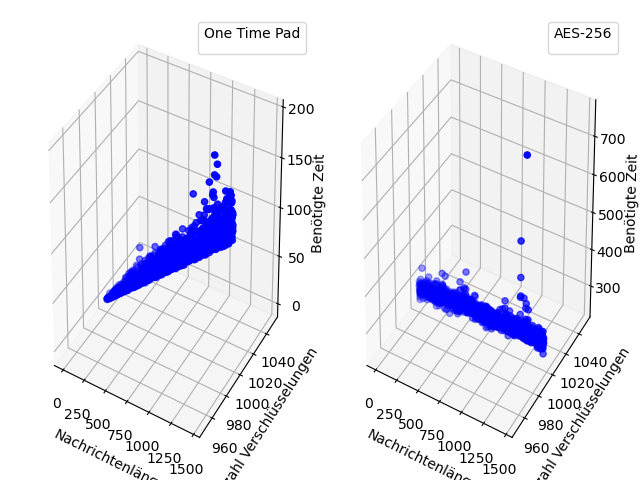
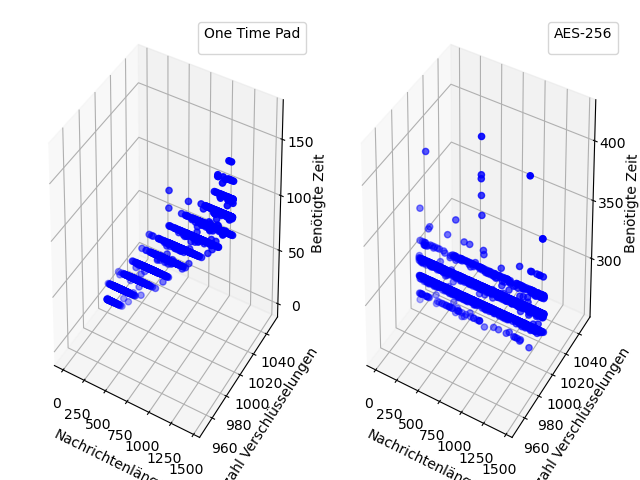
raspi optimiert v1

diff --git a/plot.py b/plot.py
@@ -1,28 +1,33 @@
 from matplotlib import pyplot as plt
 import pandas as pd
 import my_parameters
+import math
 import tikzplotlib
 from mpl_toolkits.mplot3d import Axes3D
 
+def roundup(in_time):
+    return int(math.ceil(in_time / 50.0)) * 50
+
 lang_plot = 'ger'
+platform = 'pc'
 
-# df = pd.read_pickle("dummy_LengthVStime.pkl")
-df = pd.read_pickle("Z:/mycm_crypto/CryptEval/dummy_LengthVStime_raspi.pkl")
 
-# df = pd.read_pickle("dummy_AnzahlVStime.pkl")
+if platform == 'pc':
+    # df = pd.read_pickle("dummy_AnzahlVStime.pkl")
+    df = pd.read_pickle("dummy_LengthVStime.pkl")
+    LaengeKonst = df[df["Nachrichtenlaenge"] == my_parameters.Nachrichtenlaenge_iter]
+    AnzahlKonst = df[df["AnzahlVerschluesselungen"] == my_parameters.AnzahlVerschluesselungen_iter]
 
-print(my_parameters.AnzahlVerschluesselungen_iter)
-print(my_parameters.Nachrichtenlaenge_iter)
-print(df)
+else:
+    #
+    df = pd.read_pickle("Z:/mycm_crypto/CryptEval/dummy_LengthVStime_raspi.pkl")
+    LaengeKonst = df[df["Nachrichtenlaenge"] == my_parameters.Nachrichtenlaenge_raspi]
+    AnzahlKonst = df[df["AnzahlVerschluesselungen"] == my_parameters.AnzahlVerschluesselungen_raspi]
 
-LaengeKonst = df[df["Nachrichtenlaenge"] == my_parameters.Nachrichtenlaenge_iter]
-AnzahlKonst = df[df["AnzahlVerschluesselungen"] == my_parameters.AnzahlVerschluesselungen_iter]
 
-print('FIlter')
+cr_ylim = roundup(max(max(AnzahlKonst['ZeitAES']), max(AnzahlKonst['ZeitOTP']), max(LaengeKonst['ZeitAES']), max(LaengeKonst['ZeitOTP'])))
 
-print(AnzahlKonst)
-
-# print(LaengeKonst)
+print(cr_ylim)
 
 fig1 = plt.figure(1)
 ax1 = fig1.add_subplot(111)
@@ -35,10 +40,10 @@ if lang_plot == 'eng':
     ax1.set_xlabel('number of encryptions [n]')
     ax1.set_ylabel('time [ms]')
     ax1.set_title(str('Constant Message Length: ' + str(my_parameters.Nachrichtenlaenge_iter) + ' Bytes'))
-    ax1.set_ylim(ymin=0, ymax=800)
+    ax1.set_ylim(ymin=0, ymax=cr_ylim)
     ax1.set_xlim(xmin=0)
     plt.legend()
-    # plt.grid()
+    plt.grid(color='0.7', linestyle='dotted', linewidth=0.5)
     # fig1.savefig('C:/Users/blue/Documents/Forschungsprojekt-FUH/Ausarbeitung/Abbildungen/plots/AnzahlVStime_english.svg',
     fig1.savefig('AnzahlVStime_english.svg',
                  format='svg', orientation='landscape', pad_inches=0, dpi=1200)
@@ -47,15 +52,17 @@ else:
     ax1.set_xlabel('Anzahl Maskierungen [n]')
     ax1.set_ylabel('Zeit [ms]')
     ax1.set_title(str('Nachrichtenlänge konstant bei ' + str(my_parameters.Nachrichtenlaenge_iter) + ' Bytes'))
-    # ax1.set_ylim(ymin=0, ymax=800)
+    ax1.set_ylim(ymin=0, ymax=cr_ylim)
     ax1.set_xlim(xmin=0)
     plt.legend()
-    # plt.grid()
+    plt.grid(color='0.7', linestyle='dotted', linewidth=0.5)
     # fig1.savefig('C:/Users/blue/Documents/Forschungsprojekt-FUH/Ausarbeitung/Abbildungen/plots/AnzahlVStime.pdf',
     fig1.savefig('AnzahlVStime.pdf',
                  format='pdf', orientation='landscape', pad_inches=0)
 
 #fig1.show()
+
+
 
 fig2 = plt.figure(2)
 ax2 = fig2.add_subplot(111)
@@ -64,13 +71,16 @@ ax2.plot(AnzahlKonst['Nachrichtenlaenge'], AnzahlKonst['ZeitAES'], color='k', ma
 ax2.plot(AnzahlKonst['Nachrichtenlaenge'], AnzahlKonst['ZeitOTP'], color='0.7', marker='s', markersize=0.5,
          linewidth = 0.1, label=str('SIKAF (OTP)'))
 
+
+
 if lang_plot == 'eng':
     ax2.set_xlabel('message length [byte]')
     ax2.set_ylabel('time [ms]')
     ax2.set_title(str('Constant Number of Encryptions n=' + str(my_parameters.AnzahlVerschluesselungen_iter)))
-    ax2.set_ylim(ymin=0, ymax=800)
+    ax2.set_ylim(ymin=0, ymax=cr_ylim)
     ax2.set_xlim(xmin=0)
     plt.legend()
+    plt.grid(color='0.7', linestyle='dotted', linewidth=0.5)
     # fig2.savefig('C:/Users/blue/Documents/Forschungsprojekt-FUH/Ausarbeitung/Abbildungen/plots/LengthVStime_english.svg',
     fig2.savefig('LengthVStime_english.svg',
                  format='svg', orientation='landscape', pad_inches=0, dpi=1200)
@@ -79,9 +89,10 @@ else:
     ax2.set_xlabel('Nachrichtenlänge [Byte]')
     ax2.set_ylabel('Zeit [ms]')
     ax2.set_title(str('Anzahl Maskierungen konstant bei n=' + str(my_parameters.AnzahlVerschluesselungen_iter)))
-    # ax2.set_ylim(ymin=0, ymax=800)
+    ax2.set_ylim(ymin=0, ymax=cr_ylim)
     ax2.set_xlim(xmin=0)
     plt.legend()
+    plt.grid(color='0.7', linestyle='dotted', linewidth=0.5)
     # fig2.savefig('C:/Users/blue/Documents/Forschungsprojekt-FUH/Ausarbeitung/Abbildungen/plots/LengthVStime.pdf',
     fig2.savefig('LengthVStime.pdf',
                  format='pdf', orientation='landscape', pad_inches=0)

diff --git a/SHANNONvsAES_raspi.py b/SHANNONvsAES_raspi.py
@@ -1,5 +1,5 @@
 import datetime
-import onetimepad
+# import onetimepad
 # from Crypto.Cipher import AES
 # Package geändert für raspi-portierung
 from Cryptodome.Cipher import AES
@@ -54,14 +54,11 @@ ZeitAES = []
 
 total_begin = datetime.datetime.now()
 
-LaengeRaspi = 100
-AnzVerschlRaspi = 150
+
 
 # start @ 1
-# for ik in range(my_parameters.AnzahlVerschluesselungen_iter, my_parameters.AnzahlVerschluesselungen_iter + 1):
-for ik in range(AnzVerschlRaspi, AnzVerschlRaspi + 1):
-    # for j in range(1, my_parameters.Nachrichtenlaenge_iter + 1):
-    for j in range(1, LaengeRaspi + 1):
+for ik in range(my_parameters.AnzahlVerschluesselungen_raspi, my_parameters.AnzahlVerschluesselungen_raspi + 1):
+    for j in range(1, my_parameters.Nachrichtenlaenge_raspi + 1):
         iter_msg = createMSGorKEY(j)
         iter_AES_key = createMSGorKEY(32)
         iter_OTP_key = createMSGorKEY(j)
@@ -75,10 +72,9 @@ for ik in range(AnzVerschlRaspi, AnzVerschlRaspi + 1):
 
         iter_msg = iter_AES_key = iter_OTP_key = None
 
-        print('länge: ', j, '/', LaengeRaspi)
+        print('länge: ', j, '/', my_parameters.Nachrichtenlaenge_raspi)
 
-    # print('anzahl: ', ik, '/', my_parameters.AnzahlVerschluesselungen_iter)
-    print('anzahl: ', ik, '/', AnzVerschlRaspi)
+    print('anzahl: ', ik, '/', my_parameters.AnzahlVerschluesselungen_raspi)
 
 print('Nachrichtenlaenge: ', Nachrichtenlaenge)
 print('AnzahlVerschluesselungen: ', AnzahlVerschluesselungen)

diff --git a/SHANNONvsAES.py b/SHANNONvsAES.py
@@ -9,8 +9,8 @@ import my_parameters
 
 def OTPenc(OTPmessage, OTPkey, AESkey, AnzahlVorgaenge):
 
-    #print('imputs OTP')
-    #print(OTPmessage, OTPkey, AESkey, AnzahlVorgaenge)
+    # print('imputs OTP')
+    # print(OTPmessage, OTPkey, AESkey, AnzahlVorgaenge)
     begin_otp = datetime.datetime.now()
 
     for i in range(1, AnzahlVorgaenge):
@@ -53,8 +53,8 @@ ZeitAES = []
 total_begin = datetime.datetime.now()
 
 # start @ 1
-for ik in range(my_parameters.AnzahlVerschluesselungen_iter, my_parameters.AnzahlVerschluesselungen_iter + 1):
-    for j in range(1, my_parameters.Nachrichtenlaenge_iter + 1):
+for ik in range(1, my_parameters.AnzahlVerschluesselungen_iter + 1):
+    for j in range(my_parameters.Nachrichtenlaenge_iter, my_parameters.Nachrichtenlaenge_iter + 1):
         iter_msg = createMSGorKEY(j)
         iter_AES_key = createMSGorKEY(32)
         iter_OTP_key = createMSGorKEY(j)
@@ -88,6 +88,7 @@ print('AnzahlVerschluesselungen: ', AnzahlVerschluesselungen)
 print('ZeitAES: ', ZeitAES)
 print('ZeitOTP: ', ZeitOTP)
 
-df.to_pickle("dummy_LengthVStime.pkl")
+# df.to_pickle("dummy_LengthVStime.pkl")
+df.to_pickle("dummy_AnzahlVStime.pkl")
 
 print(datetime.datetime.now() - total_begin)

diff --git a/tests.py b/tests.py
@@ -1,4 +1,11 @@
 import sys
+import os
 print(sys.version)
 
+"dummy_LengthVStime_raspi.pkl"
 
+filename_suffix = "pkl"
+
+base_filename = param = "dummy_LengthVStime_raspi.pkl"
+
+os.path.join(base_filename, param + "." + filename_suffix)

diff --git a/my_parameters.py b/my_parameters.py
@@ -4,3 +4,4 @@ Nachrichtenlaenge_iter = 1460 #  ursprünglich bei konst: 1410
 Nachrichtenlaenge_iter_2 = 1300
 
 AnzahlVerschluesselungen_raspi = 10
+Nachrichtenlaenge_raspi = 15
